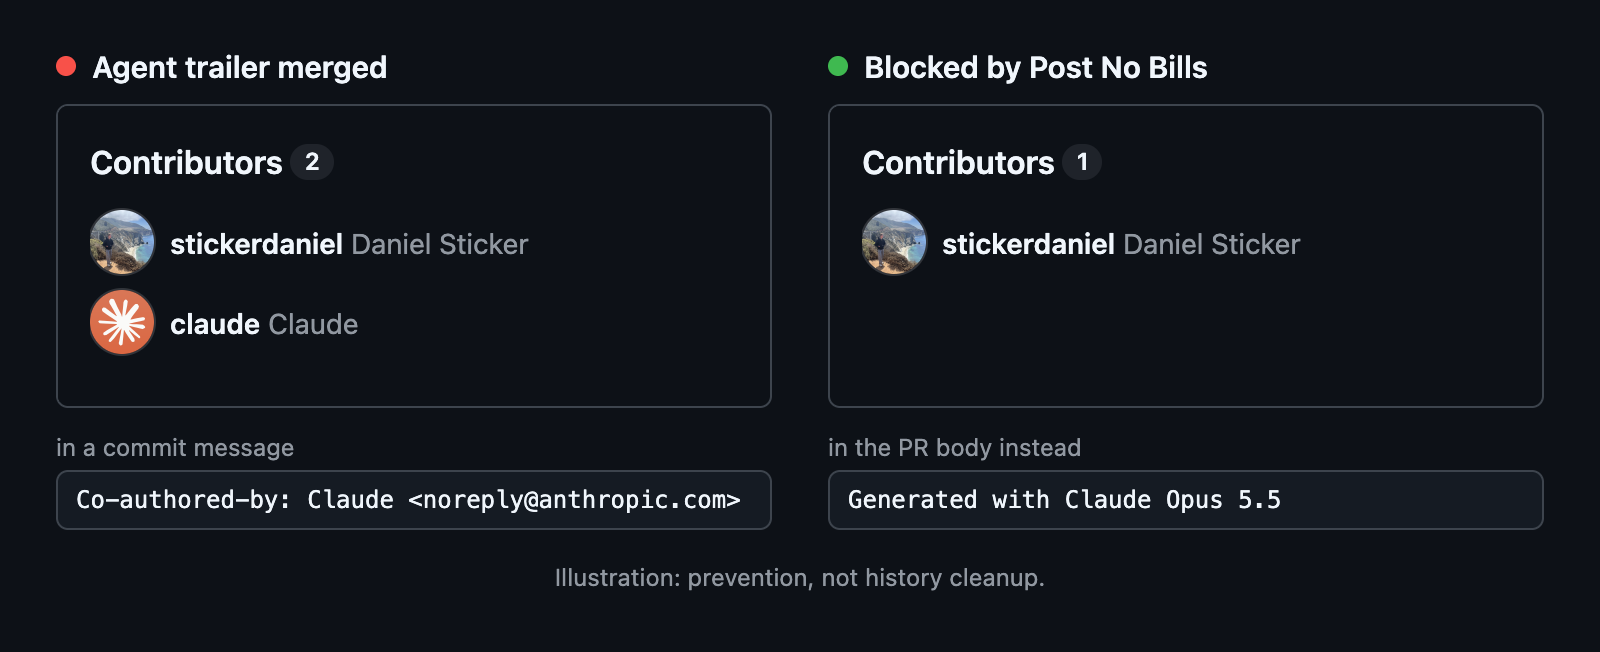
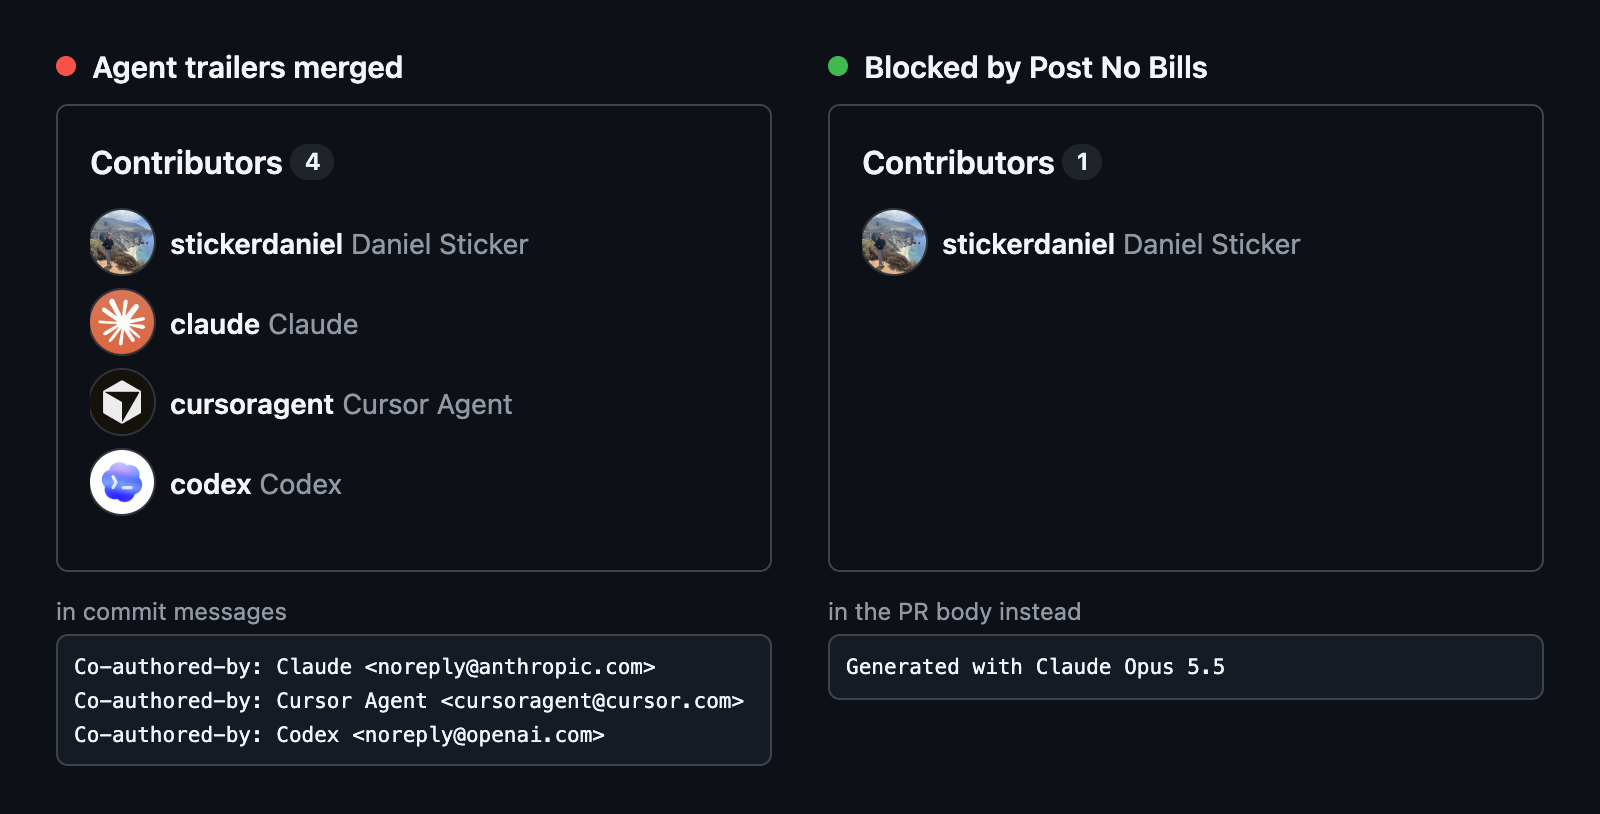
docs: Pin v2.2.0 and show three agents (#29)
## Problem

The README still pins v2.1.0 and carries a move notice nobody needs. The
illustration showed only Claude, and the repository kept a code of
conduct it does not use.

## Solution

I pin the usage example to the immutable v2.2.0 release commit, show
Claude, Cursor and Codex in the illustration, and remove the move notice
and `CODE_OF_CONDUCT.md`.

## Verification

`cf1ab38` is the commit `refs/tags/v2.2.0` names; the release reads back
immutable and latest, verifies, and its body equals the CHANGELOG
section. The name audit is clean and the suite passes.

| Section | Before | After |
| --- | --- | --- |
| Top |
![Before](https://github.com/user-attachments/assets/9b2667ea-e3c1-4409-a3ae-06314a6e74a3)
|
![After](https://github.com/user-attachments/assets/a7e5c201-4c1e-4160-8dc7-94da9c2d5d10)
|

Generated with Claude Opus 5.5 for implementation and GPT-6 Pro for
review in Claude Code via T3 Code.

diff --git a/README.md b/README.md
@@ -4,13 +4,10 @@
 
 <picture>
   <source media="(prefers-color-scheme: dark)" srcset="docs/hero-dark.png">
-  <img alt="Illustration. Left, agent trailer merged: the Contributors list shows 2, stickerdaniel and claude, after a commit message with Co-authored-by: Claude. Right, blocked by Post No Bills: the list shows only stickerdaniel, and the PR body ends with Generated with Claude Opus 5.5." src="docs/hero-light.png" width="800">
+  <img alt="Left, agent trailers merged: the Contributors list shows 4, stickerdaniel, claude, cursoragent and codex, after commit messages with Co-authored-by trailers for Claude, Cursor Agent and Codex. Right, blocked by Post No Bills: the list shows only stickerdaniel, and the PR body ends with Generated with Claude Opus 5.5." src="docs/hero-light.png" width="800">
 </picture>
 
 A coding agent that adds `Co-authored-by: Claude <noreply@anthropic.com>` to a commit signs your repository. Once that trailer reaches your default branch, the agent's account can join your Contributors list, next to the people who wrote the code. Post No Bills is a GitHub Action that fails such pull requests, and asks for a one-line model disclosure in the PR body instead.
-
-> [!IMPORTANT]
-> This action was `stickerdaniel/agent-guardrails`. GitHub does not redirect actions after a rename, so replace `stickerdaniel/agent-guardrails@` with `stickerdaniel/post-no-bills@` in your workflow. Pinned SHAs stay valid.
 
 ## What it catches
 
@@ -35,7 +32,7 @@ jobs:
   check-bot-coauthors:
     runs-on: ubuntu-latest
     steps:
-      - uses: stickerdaniel/post-no-bills@9ced49e05b0469fb32895fe24b20d2f7295f3a45 # v2.1.0
+      - uses: stickerdaniel/post-no-bills@cf1ab380bfc68079de8113e1a86d2a8350abbc55 # v2.2.0
 ```
 
 Pin a release SHA. Make `check-bot-coauthors` a required check and give the job no `if:`, because GitHub counts a skipped job as passing.
